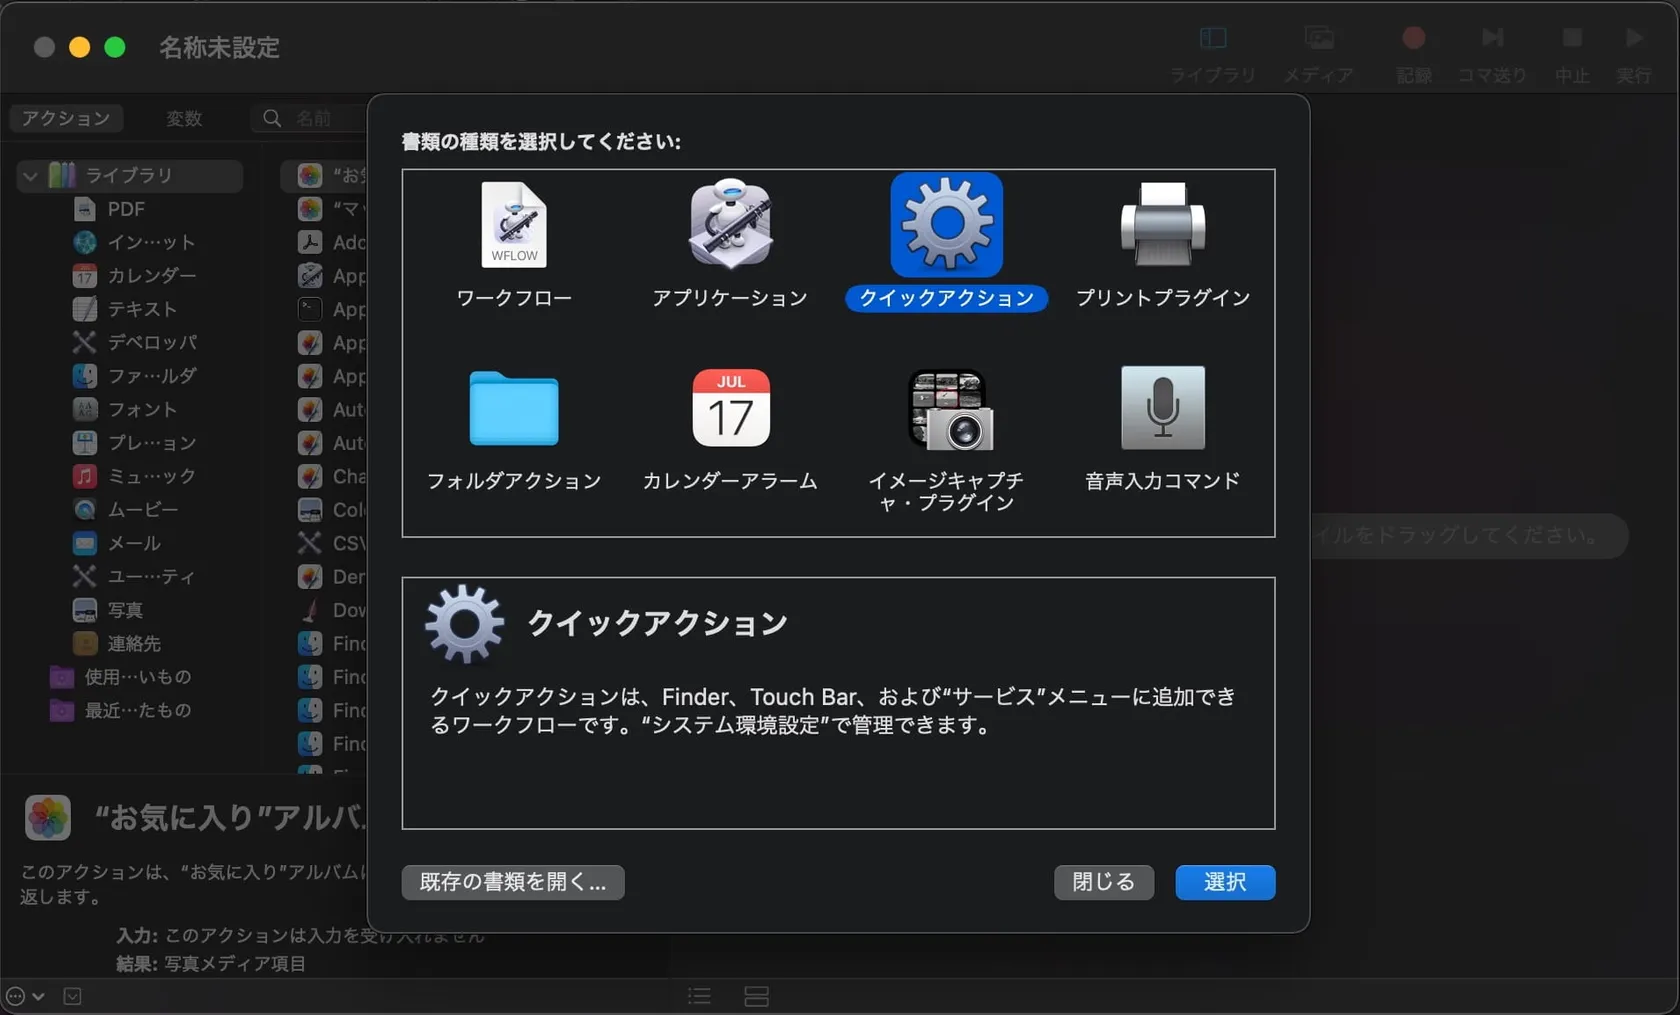
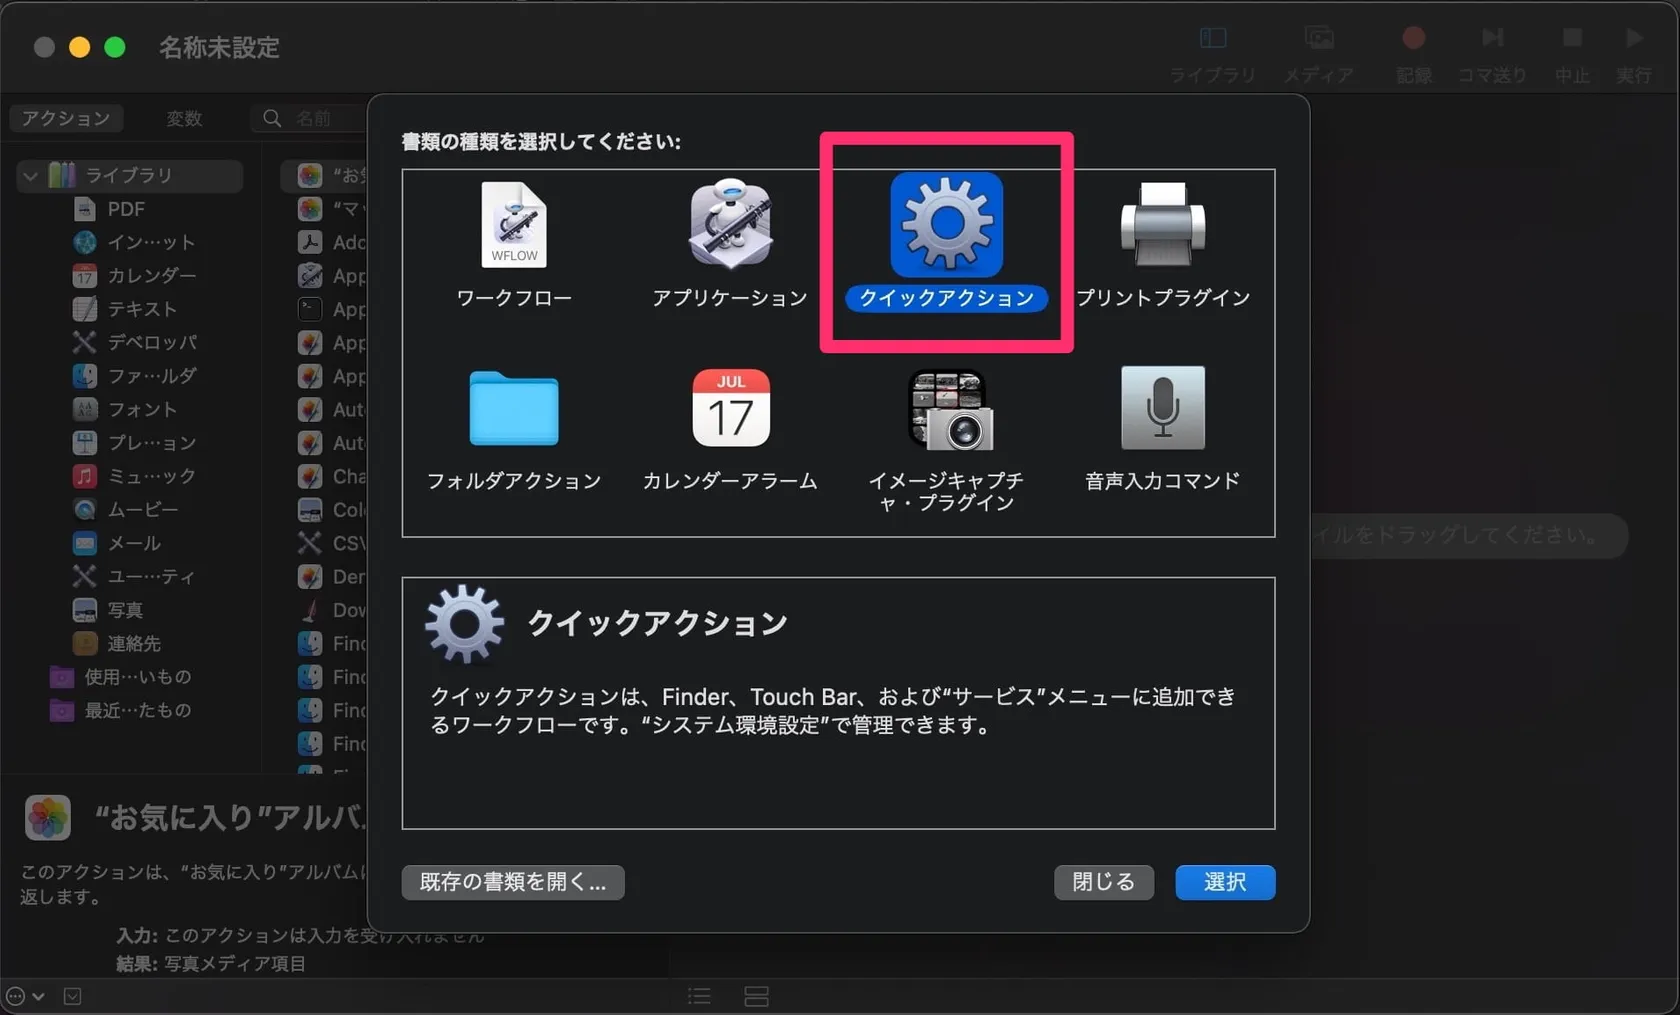
add Post

Changed region(s): [[0.4643, 0.1222, 0.65, 0.3665]]

diff --git a/content/blog/gadget/automator-quickaction-convert-jpg.md b/content/blog/gadget/automator-quickaction-convert-jpg.md
@@ -1,5 +1,5 @@
 ---
-title: "[Mac/Automator]HEIFやPNGなどを右クリックでJPEGに変換するクイックアクション"
+title: "【ダウンロードするだけ超簡単】HEIFやPNGなどを右クリックでJPEGに変換"
 date: 2021-01-19T00:00:22+09:00
 categories: ["Gadget"]
 tags: ["Automator","Mac"]
@@ -13,9 +13,37 @@ LINEなどの別サービスへ転送する際にiOSが自動的にJPEGに変換
 
 {{<ad>}}
 
+## すでに完成したクイックアクションをダウンロード
+
+
+
+{{<bg>}}
+
+### クイックアクション：JPEGに変換
+
+<p class=noIndent>
+  <a href="/download/JPEGに変換.zip" class=download download>ダウンロード</a>
+</p>
+
+{{<bg-end>}}
+
+zipをダブルクリックして展開、`JPEGに変換.workflow`をダブルクリックして<b>"`JPEGに変換"クイックアクションをインストール</b>します。
+
+![](../../../images/Capture1.jpg)
+
+### あとは使うだけ
+
+インストールが完了すると**システム環境設定の機能拡張**ウィンドウが開くので<b>JPEGに変換</b>が追加されていることを確認したら、Finderで画像ファイルを右クリック、クイックアクションから『JPEGに変換』をクリックするだけ。
+
+![](../../../images/Capture3.jpg)
+
+***
+
+## 自分で作る場合
+
 ## Automatorでクイックアクションを作成
 
-**Launchpad**か**アプリケーションフォルダ**から、macOSに標準でインストールされている<b>Automator</b>というアプリを開きます。
+**Launchpad**か**アプリケーションフォルダ**から、macOSに標準でインストールされている<b>Automator</b>というアプリを開きます。よくわからない場合は ⌘ + スペースキー を押してSpotlightで『Automator』と検索。
 
 ![](../../../images/launchpad-automator.jpg)
 
